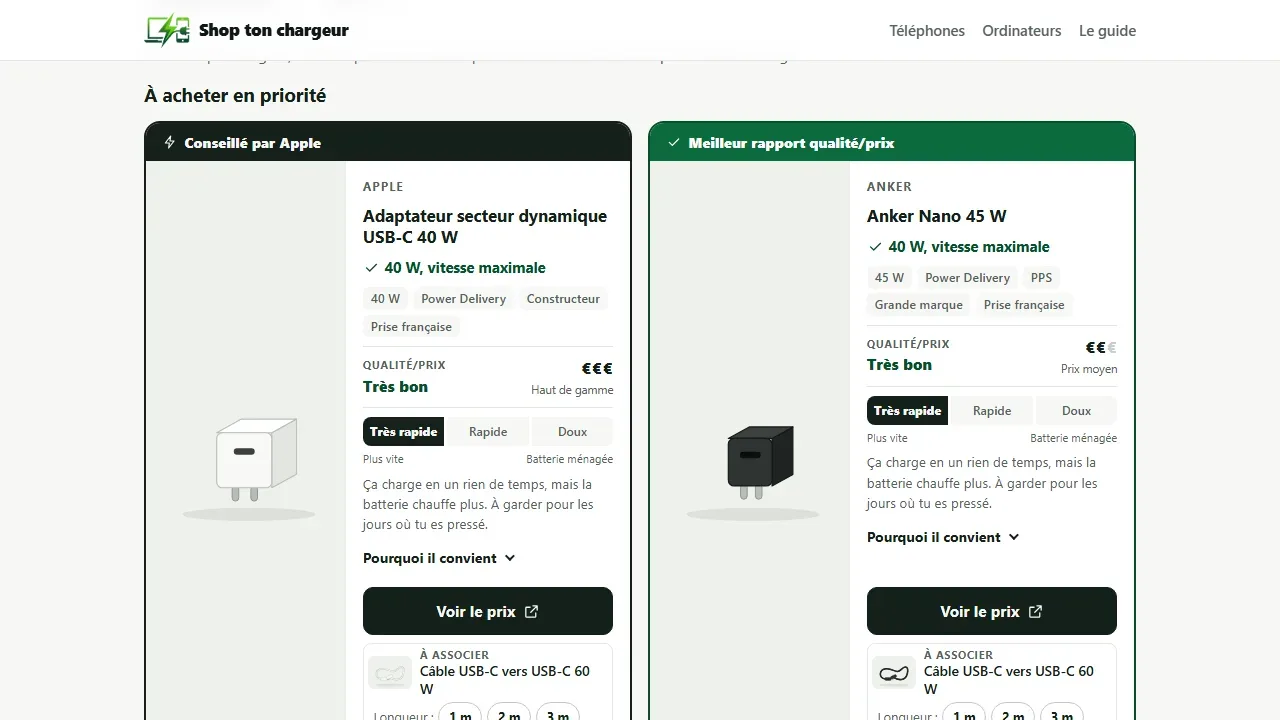
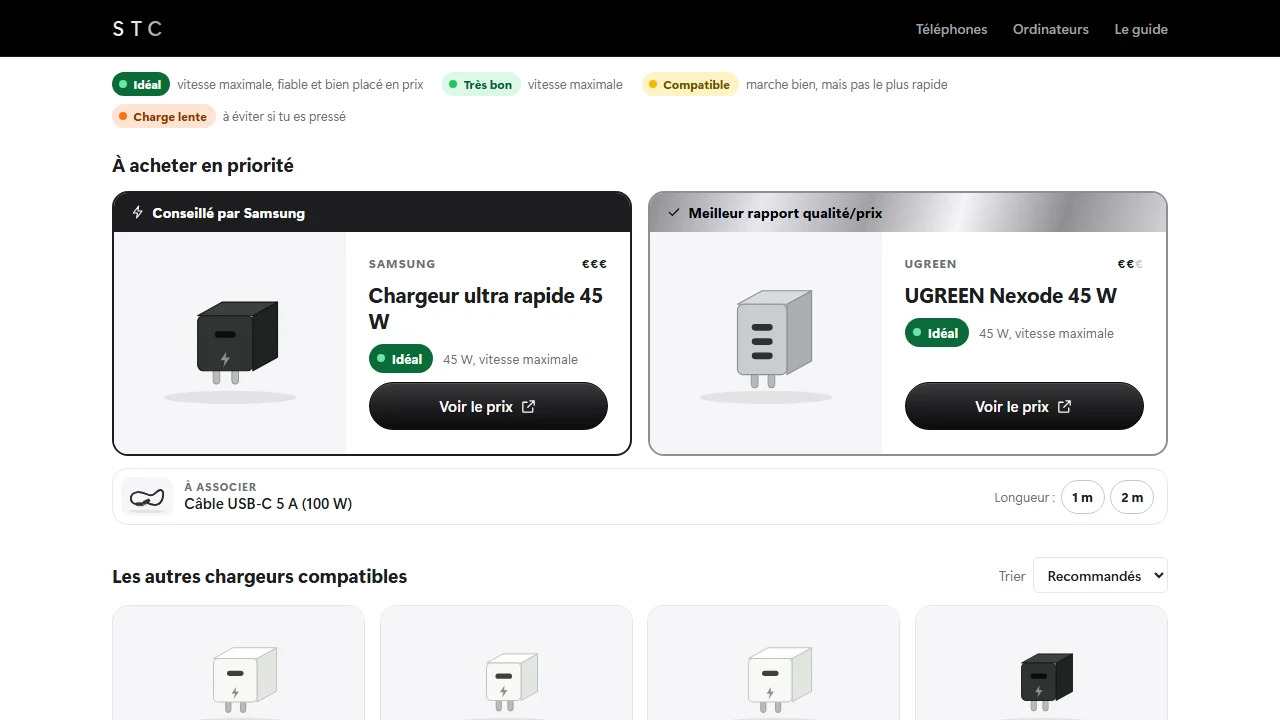
feat: Croc's en réalisation, captures d'O'RDV et de Shop ton chargeur refaites

diff --git a/front/src/data/realisations.ts b/front/src/data/realisations.ts
@@ -9,6 +9,12 @@ import cadeauxBilan from '../assets/realisations/cadeaux/bilan.webp';
 import cadeauxCagnotte from '../assets/realisations/cadeaux/cagnotte.webp';
 import cadeauxParticiper from '../assets/realisations/cadeaux/participer.webp';
 import cadeauxEnvies from '../assets/realisations/cadeaux/envies.webp';
+import crocsAccueil from '../assets/realisations/crocs/accueil.webp';
+import crocsCarte from '../assets/realisations/crocs/carte.webp';
+import crocsModificationHaut from '../assets/realisations/crocs/modification-haut.webp';
+import crocsModification from '../assets/realisations/crocs/modification.webp';
+import crocsEspacePro from '../assets/realisations/crocs/espace-pro.webp';
+import crocsVenir from '../assets/realisations/crocs/venir.webp';
 import chargeurAccueil from '../assets/realisations/choptonchargeur/accueil.webp';
 import chargeurRecherche from '../assets/realisations/choptonchargeur/recherche.webp';
 import chargeurFiche from '../assets/realisations/choptonchargeur/fiche.webp';
@@ -41,6 +47,7 @@ import ordvAccueil from '../assets/realisations/ordv/accueil.webp';
 import ordvConnexion from '../assets/realisations/ordv/connexion.webp';
 import ordvEspacePro from '../assets/realisations/ordv/espace-pro.webp';
 import ordvInscription from '../assets/realisations/ordv/inscription.webp';
+import ordvRecherche from '../assets/realisations/ordv/recherche.webp';
 import ordvPriseDeRendezVous from '../assets/realisations/ordv/prise-de-rendez-vous.webp';
 import ordvReservation from '../assets/realisations/ordv/reservation.webp';
 
@@ -125,6 +132,41 @@ export function realisationsFiltrees(filtre: string | null): Realisation[] {
 }
 
 export const realisations: Realisation[] = [
+  {
+    id: 'crocs',
+    categorie: 'Restauration rapide · Amiens',
+    type: 'site',
+    titre: 'Croc’s',
+    resume: 'Site d’un snack d’Amiens, que le patron modifie en touchant l’écran.',
+    annee: '2026',
+    lien: { label: 'Voir le projet', to: cheminRealisation('crocs') },
+    apercu: 'site',
+    emplacements: ['[capture du site]'],
+    captures: [
+      { src: crocsAccueil, legende: 'Accueil : appeler ou venir en un geste, photos qui défilent' },
+      { src: crocsCarte, legende: 'La carte complète, avec ses prix, sur une seule page' },
+      { src: crocsModificationHaut, legende: 'Mode modification : le patron touche un texte ou une photo pour le changer' },
+      { src: crocsModification, legende: 'Mode modification de la carte : plats, prix, rubriques, « Épuisé »' },
+      { src: crocsEspacePro, legende: 'Espace du patron, installable sur son téléphone' },
+      { src: crocsVenir, legende: 'Venir : itinéraire, temps de trajet et horaires du jour' },
+    ],
+    contexte:
+      'Croc’s est un snack de la rue de Rouen, à Amiens : kebabs, tacos, libanais, paninis et burgers. Sa carte n’existait que sur la vitrine et sur des annuaires pas toujours à jour.',
+    besoin:
+      'Un site simple, rapide sur téléphone, avec la carte et les prix, l’itinéraire et les horaires. Et surtout un patron autonome : changer un prix, un plat épuisé ou une fermeture sans appeler personne.',
+    solution:
+      'Un site d’une page, aux couleurs de l’enseigne : la carte complète, l’appel et l’itinéraire en un geste, le temps de trajet depuis chez soi. Le patron se connecte depuis son téléphone et modifie son site directement, en touchant ce qu’il veut changer. C’est enregistré tout de suite.',
+    fonctionnalites: [
+      'Carte complète par rubriques, prix en euros, plats « Nouveau » et « Épuisé »',
+      'Bouton d’appel, itinéraire Google Maps, Waze ou Plans, carte de l’adresse',
+      'Temps de trajet en voiture, à vélo et à pied depuis sa position ou une adresse',
+      'Horaires avec le jour même mis en avant, annonce de fermeture exceptionnelle',
+      'Modification sur le site : le patron touche un plat, un prix, un texte ou une photo pour le changer',
+      'Espace du patron installable sur le téléphone, déconnexion automatique après 30 minutes',
+      'Mentions légales et données personnelles',
+    ],
+    technos: ['React', 'TypeScript', 'Vite', 'Symfony', 'MySQL', 'GitHub Actions'],
+  },
   {
     id: 'christophe-poix-moto',
     categorie: 'Réparation moto à domicile',
@@ -250,11 +292,11 @@ export const realisations: Realisation[] = [
     apercu: 'site',
     emplacements: ['[capture du site]'],
     captures: [
-      { src: chargeurAccueil, legende: 'Accueil : recherche par téléphone ou par ordinateur portable' },
-      { src: chargeurRecherche, legende: 'Recherche par le nom seul, les plus récents d’abord' },
+      { src: chargeurAccueil, legende: 'Accueil noir et titane : recherche et modèles récents avec leur puissance' },
+      { src: chargeurRecherche, legende: 'Recherche par le nom seul (« s24 »), les plus récents d’abord' },
       { src: chargeurFiche, legende: 'Fiche d’un téléphone : puissance, port, charge rapide, sans fil' },
-      { src: chargeurPriorites, legende: 'À acheter en priorité : conseillé par la marque et meilleur rapport qualité/prix' },
-      { src: chargeurSansfil, legende: 'Chargeurs sans fil compatibles' },
+      { src: chargeurPriorites, legende: 'À acheter en priorité, avec une note en couleur et le câble qui va avec' },
+      { src: chargeurSansfil, legende: 'Chargeurs sans fil compatibles (MagSafe, Qi2, Qi)' },
       { src: chargeurOrdinateurs, legende: 'Ordinateurs portables par marque et par série' },
       { src: chargeurGuide, legende: 'Le guide : bloc, câble, batterie, chargeurs premier prix' },
     ],
@@ -267,8 +309,9 @@ export const realisations: Realisation[] = [
     fonctionnalites: [
       'Recherche par nom seul (« s24 ultra », « iphone 15 ») parmi 1 566 téléphones USB-C et iPhone, et détection automatique de l’appareil',
       'Pour chaque téléphone : le chargeur conseillé par la marque et le meilleur rapport qualité/prix mis en avant, puis les autres compatibles',
-      'Vitesse réellement obtenue et explication « Pourquoi il convient » (Power Delivery, PPS, 5 A, charge propre à la marque)',
-      'Effet sur la batterie (très rapide, rapide, doux), câble à associer en plusieurs longueurs, chargeurs sans fil MagSafe, Qi2 et Qi',
+      'Une note en couleur pour chaque chargeur : Idéal, Très bon, Compatible ou Charge lente, selon la vitesse réellement obtenue',
+      'Cartes épurées et cliquables, câble à associer en plusieurs longueurs, chargeurs sans fil MagSafe, Qi2 et Qi',
+      'Design noir et blanc à effet titane, animations discrètes (apparitions, jauges de puissance, recherche tapée)',
       'Ordinateurs portables par marque et par série, y compris prises rondes et rectangulaires, avec le chargeur d’origine',
       'Uniquement des marques connues en version prise française, liens affiliés vers Amazon',
       'Référencement : une page par appareil générée à la construction (120 pages), FAQ structurée, sitemap, robots.txt ouvert aux assistants et llms.txt',
@@ -287,9 +330,10 @@ export const realisations: Realisation[] = [
     apercu: 'plateforme',
     emplacements: ['[recherche de professionnels]'],
     captures: [
-      { src: ordvAccueil, legende: 'Accueil et recherche de professionnels' },
-      { src: ordvPriseDeRendezVous, legende: 'Prise de rendez-vous' },
-      { src: ordvReservation, legende: 'Choix du créneau' },
+      { src: ordvAccueil, legende: 'Accueil : recherche, catégories et filtres' },
+      { src: ordvRecherche, legende: 'Résultats par catégorie, avec la carte des professionnels' },
+      { src: ordvPriseDeRendezVous, legende: 'Fiche d’un professionnel' },
+      { src: ordvReservation, legende: 'Réservation : prestation puis date' },
       { src: ordvEspacePro, legende: 'Espace professionnel' },
       { src: ordvConnexion, legende: 'Connexion' },
       { src: ordvInscription, legende: 'Inscription' },
@@ -301,7 +345,7 @@ export const realisations: Realisation[] = [
     solution:
       'Une plateforme en deux espaces : le professionnel publie ses disponibilités et gère son planning, le client recherche un prestataire et réserve un créneau libre en quelques clics. Les données personnelles sont chiffrées en base.',
     fonctionnalites: [
-      'Accueil avec recherche de professionnels',
+      'Accueil avec recherche, catégories et filtres (ouvert maintenant, note, autour de moi, tri)',
       'Inscription et connexion, espace client et espace pro',
       'Prise de rendez-vous avec les seuls créneaux disponibles',
       'Espace professionnel : planning et réservations',

diff --git a/front/src/pages/Realisations/Realisations.test.tsx b/front/src/pages/Realisations/Realisations.test.tsx
@@ -38,11 +38,12 @@ describe('Page Réalisations', () => {
     const cartes = () => screen.getAllByRole('article').map((a) => a.getAttribute('aria-labelledby'));
 
     expect(screen.getByRole('radio', { name: 'Tout' })).toBeChecked();
-    expect(screen.getByText('6 projets')).toBeInTheDocument();
-    expect(cartes()).toHaveLength(6);
+    expect(screen.getByText('7 projets')).toBeInTheDocument();
+    expect(cartes()).toHaveLength(7);
 
     await user.click(screen.getByRole('radio', { name: 'Sites web' }));
-    expect(screen.getByText('3 projets')).toBeInTheDocument();
+    expect(screen.getByText('4 projets')).toBeInTheDocument();
+    expect(screen.getByRole('article', { name: 'Croc’s' })).toBeInTheDocument();
     expect(screen.getByRole('article', { name: 'Shop ton chargeur' })).toBeInTheDocument();
     expect(screen.queryByRole('article', { name: "O'RDV" })).not.toBeInTheDocument();
     expect(screen.getByRole('article', { name: 'Christophe Poix Moto' })).toBeInTheDocument();
@@ -54,7 +55,7 @@ describe('Page Réalisations', () => {
     expect(screen.getByRole('article', { name: 'Alterno' })).toBeInTheDocument();
 
     await user.click(screen.getByRole('radio', { name: 'Tout' }));
-    expect(cartes()).toHaveLength(6);
+    expect(cartes()).toHaveLength(7);
   });
 
   it('reprend le filtre de l’adresse, et ignore un filtre inconnu', () => {
@@ -65,7 +66,7 @@ describe('Page Réalisations', () => {
 
     afficher(`${pages.realisations.path}?type=inconnu`);
     expect(screen.getByRole('radio', { name: 'Tout' })).toBeChecked();
-    expect(screen.getAllByRole('article')).toHaveLength(6);
+    expect(screen.getAllByRole('article')).toHaveLength(7);
   });
 
   it('présente Cadeaux : captures, fonctionnalités et lien vers le site', () => {
@@ -94,11 +95,12 @@ describe('Page Réalisations', () => {
     expect(screen.getByRole('article', { name: 'Perfect Clean' })).toBeInTheDocument();
 
     await user.click(screen.getByRole('radio', { name: 'Commerce et restauration' }));
-    expect(screen.getByText('2 projets')).toBeInTheDocument();
+    expect(screen.getByText('3 projets')).toBeInTheDocument();
+    expect(screen.getByRole('article', { name: 'Croc’s' })).toBeInTheDocument();
     expect(screen.getByRole('article', { name: /Carte par QR code/ })).toHaveTextContent('Exemple');
 
     await user.click(screen.getByRole('radio', { name: 'Sites web' }));
-    expect(screen.getByText('1 projet')).toBeInTheDocument();
+    expect(screen.getByText('2 projets')).toBeInTheDocument();
     expect(screen.getByRole('article', { name: /Carte par QR code/ })).toBeInTheDocument();
   });
 
@@ -141,7 +143,7 @@ describe('Page d’une réalisation', () => {
       expect(screen.getByRole('heading', { level: 2, name: titre })).toBeInTheDocument();
     }
     expect(screen.getByText('MySQL')).toBeInTheDocument();
-    expect(screen.getByRole('button', { name: "Agrandir la capture : Accueil et recherche de professionnels" })).toBeInTheDocument();
+    expect(screen.getByRole('button', { name: "Agrandir la capture : Accueil : recherche, catégories et filtres" })).toBeInTheDocument();
     expect(screen.getByRole('button', { name: "Agrandir la capture : Espace professionnel" })).toBeInTheDocument();
     const demo = screen.getByRole('link', { name: /Tester la démo en ligne/ });
     expect(demo).toHaveAttribute('href', 'https://o-rdv.vercel.app');
@@ -164,7 +166,7 @@ describe('Page d’une réalisation', () => {
   it('mène aux projets précédent et suivant, et revient à la liste', () => {
     afficher('/realisations/christophe-poix-moto');
     const voisins = within(screen.getByRole('navigation', { name: 'Autres réalisations' }));
-    expect(voisins.getByRole('link', { name: /Projet précédent/ })).toHaveAttribute('href', '/realisations/alterno');
+    expect(voisins.getByRole('link', { name: /Projet précédent/ })).toHaveAttribute('href', '/realisations/crocs');
     expect(voisins.getByRole('link', { name: /Projet suivant/ })).toHaveAttribute('href', '/realisations/demo-detailing');
     expect(screen.getByRole('link', { name: '← Toutes les réalisations' })).toHaveAttribute('href', pages.realisations.path);
   });

diff --git a/front/src/data/seo.test.ts b/front/src/data/seo.test.ts
@@ -15,11 +15,12 @@ describe('SEO', () => {
     expect(chemins).toContain(pages.rendezVous.path);
     expect(chemins.filter((c) => c.startsWith('/mon-espace'))).toEqual([]);
     // Pages publiques, plus une page par réalisation.
-    expect(chemins).toHaveLength(Object.keys(pages).length - pagesNonIndexees.length + 6);
+    expect(chemins).toHaveLength(Object.keys(pages).length - pagesNonIndexees.length + 7);
     expect(chemins).toContain('/realisations/alterno');
     expect(chemins).toContain('/realisations/choptonchargeur');
     expect(chemins).toContain('/realisations/cadeaux');
     expect(chemins).toContain('/realisations/ordv');
+    expect(chemins).toContain('/realisations/crocs');
   });
 
   it('demande aux robots de ne pas visiter l’espace client', () => {

diff --git a/front/src/data/realisationsIds.ts b/front/src/data/realisationsIds.ts
@@ -2,7 +2,7 @@
  * Identifiants et adresses des pages de réalisations, sans images : utilisés aussi par le plan du site
  * (`seo.ts`, lu par la configuration de Vite côté serveur, où les imports d'images ne fonctionnent pas).
  */
-export const idsRealisations = ['christophe-poix-moto', 'demo-detailing', 'cadeaux', 'choptonchargeur', 'ordv', 'alterno'] as const;
+export const idsRealisations = ['crocs', 'christophe-poix-moto', 'demo-detailing', 'cadeaux', 'choptonchargeur', 'ordv', 'alterno'] as const;
 
 export type IdRealisation = (typeof idsRealisations)[number];
 

diff --git a/front/src/components/RealisationCard/RealisationCard.test.tsx b/front/src/components/RealisationCard/RealisationCard.test.tsx
@@ -6,7 +6,7 @@ import { RealisationCard } from './RealisationCard';
 
 const [moto] = realisations;
 /** Projet sans captures : la carte montre une illustration provisoire. */
-const provisoire = { ...realisations[1], captures: [], emplacements: ['[écran réservation]', '[écran paiement]'] };
+const provisoire = { ...realisations.find((r) => r.id === 'demo-detailing')!, captures: [], emplacements: ['[écran réservation]', '[écran paiement]'] };
 
 function renderCard(ui: ReactElement) {
   return render(<MemoryRouter>{ui}</MemoryRouter>);

diff --git a/front/src/data/secteurs.ts b/front/src/data/secteurs.ts
@@ -18,6 +18,7 @@ export type Secteur = (typeof secteurs)[number]['value'];
 
 /** Secteur de chaque carte (réalisation ou exemple). Un test vérifie que toutes en ont un. */
 export const secteurDe: Record<string, Exclude<Secteur, 'tous'>> = {
+  crocs: 'commerce',
   'christophe-poix-moto': 'artisans',
   'demo-detailing': 'artisans',
   cadeaux: 'perso',

diff --git a/docs/fonctionnalites/pages-de-contenu.md b/docs/fonctionnalites/pages-de-contenu.md
@@ -48,7 +48,7 @@ Les pages sont propres au site ; les blocs utilisés (`Card`, `SectionTitle`, `R
 - **fonctionnels** : `Home.test.tsx`, `Metier.test.tsx`, `Realisations.test.tsx`, `APropos.test.tsx`, `Informatique.test.tsx`, `Legal.test.tsx`.
 
 ## Réalisations
-`/realisations` liste les projets en cartes (`components/RealisationCard`, couverture = première capture). Chaque carte mène à `/realisations/<projet>` (`pages/Realisation`), qui n'affiche que ce projet. Données : `data/realisations.ts` (captures WebP dans `src/assets/realisations/`), identifiants pour le plan du site : `data/realisationsIds.ts`. Projets : Christophe Poix Moto, démo detailing, O'RDV, Alterno.
+`/realisations` liste les projets en cartes (`components/RealisationCard`, couverture = première capture). Chaque carte mène à `/realisations/<projet>` (`pages/Realisation`), qui n'affiche que ce projet. Données : `data/realisations.ts` (captures WebP dans `src/assets/realisations/`), identifiants pour le plan du site : `data/realisationsIds.ts`. Projets, dans l'ordre : Croc's, Christophe Poix Moto, démo detailing (Perfect Clean), Cadeaux, Shop ton chargeur, O'RDV, Alterno.
 
 ## FAQ sur l'accueil
 La FAQ est une section de l'accueil, juste avant la carte des zones (`id="faq"`). La fin de l'accueil est : Questions fréquentes → Carte → Formulaire de contact, pour que la page se termine par l'action ; le pied de page n'y répète pas son appel « Un projet en tête ? ». Elle montre 3 questions, puis 3 de plus à chaque clic sur « Voir plus de questions (n restantes) ». Après chaque clic, le focus clavier passe à la première nouvelle question. Le lien « Questions fréquentes » du pied de page mène à `/#faq` (`lienFaq`). L'ancienne adresse `/faq` y redirige, ce qui garde valables les liens déjà partagés. Elle est retirée du plan du site. Les données structurées FAQPage sont maintenant sur l'accueil. Le nombre de questions par paquet se règle dans `faqAccueil.parPaquet`.
@@ -175,3 +175,6 @@ Mise à jour du 2026-11-16 (soir) : neuf captures (ajout des abonnements, de l'e
 
 ## Pages métier (11)
 `data/metiers.ts` (`pagesMetier`, dont `pagesPersonas`) : artisan (services à domicile), bâtiment, beauté, commerce, restaurant, santé (`independant`), professions libérales, cours, gîtes, associations, événementiel. Chaque page : `pages.ts` (adresse, titre, promesse), une catégorie `MetierId` (`offres.ts` : fonctions proposées ; `apercu.ts` : entreprise fictive ; `metiersConnus.ts` : métiers rangés dedans), une route (`app/routes.tsx`) et un lien de pied de page (`navigation.ts`).
+
+## Réalisation « Croc's » (2026-11-24)
+La fiche `crocs` (`data/realisations.ts`, métier « Commerce et restauration ») présente le site du snack, sans lien tant que la démo est privée. Six captures (`assets/realisations/crocs/`) prises sur `apps/crocs/front` de bsandoz-booking servi en local ; pour le mode modification et l'espace du patron, la session est simulée dans le navigateur au moment de la capture. Les captures d'O'RDV (site en ligne, sans les comptes de test) et de Shop ton chargeur (site local) ont été refaites le même jour après leurs changements de design.

diff --git a/docs/journal/139-feature-realisations-crocs.md b/docs/journal/139-feature-realisations-crocs.md
@@ -1,0 +1,23 @@
+# Croc's en réalisation, captures d'O'RDV et de Shop ton chargeur refaites
+
+Branche `feature/realisations-crocs` · 2026-11-24
+
+## Ce qui a été fait
+Baptiste voulait ajouter Croc's à ses réalisations, et refaire les captures d'O'RDV (nouvelle barre de navigation et nouveaux filtres) et de Shop ton chargeur (nouveau design noir et titane, cartes avec note en couleur).
+- **Croc's** (`/realisations/crocs`), en tête de liste, métier « Commerce et restauration », type « Sites web » : contexte, besoin, solution, 7 fonctionnalités, 6 captures (accueil, carte, mode modification du haut de page et de la carte, espace du patron, venir et horaires). Pas de lien vers le site : la démo est encore privée.
+- **Captures de Croc's** : prises sur le site construit en local (`apps/crocs/front` de bsandoz-booking). Pour le mode modification et l'espace du patron, la session du patron est simulée dans le navigateur, avec la carte du site ; rien n'est modifié dans le projet. Les avis clients (Restaurant Guru) ne sont pas montrés : ils attendent l'accord du patron.
+- **O'RDV** : accueil, résultats par catégorie, fiche d'un professionnel, réservation, connexion et inscription refaites sur le site en ligne (o-rdv.vercel.app), en évitant les comptes de test (« Bg Baptiste », « choco IT »). L'espace pro garde son ancienne capture (il faut un compte pro pour la refaire).
+- **Shop ton chargeur** : les 7 captures refaites sur le site construit en local, légendes et fonctionnalités à jour (note en couleur, cartes épurées, design noir et titane, animations).
+
+## Tests
+- Compteurs de la page Réalisations (7 projets, 4 sites web, 3 en commerce et restauration), projet précédent de Christophe Poix Moto (Croc's), plan du site (une page de plus).
+- Résultats : 401 tests ; lint et build sans erreur (27 pages lisibles sans JavaScript).
+- Vérifié dans Chrome : liste des réalisations et page de Croc's.
+
+## Fichiers principaux
+- `front/src/data/realisations.ts`, `realisationsIds.ts`, `secteurs.ts`
+- `front/src/assets/realisations/crocs/`, `ordv/`, `choptonchargeur/`
+
+## Reste ouvert
+- Demander au patron de Croc's s'il est d'accord pour apparaître dans les réalisations (photos de son snack, carte et prix pas encore validés).
+- Capture de l'espace pro d'O'RDV à refaire avec un compte pro.

diff --git a/docs/CHANGELOG.md b/docs/CHANGELOG.md
@@ -1,6 +1,11 @@
 # Journal des modifications
 
 ## [Non publié]
+### Ajouté (réalisation Croc's)
+- Croc's dans les réalisations, en tête : site d'un snack d'Amiens que le patron modifie en touchant l'écran ; 6 captures (accueil, carte, mode modification, espace du patron, venir). Pas de lien vers le site tant que la démo est privée.
+### Modifié (captures)
+- O'RDV : captures refaites avec la nouvelle barre de navigation et les nouveaux filtres (accueil, résultats par catégorie, fiche, réservation, connexion, inscription).
+- Shop ton chargeur : les 7 captures refaites (design noir et titane, notes en couleur), légendes et fonctionnalités à jour.
 ### Ajouté (relance « Avant de partir »)
 - Carte « Avant de partir · Donnez vie à votre idée », 30 secondes après l'arrivée sur le site : « Recevoir ma maquette gratuite » (formulaire avec la maquette déjà cochée) ou « Appeler le 07 69 28 78 37 ». Discrète, en bas de l'écran, sans bloquer la page ; attend la fermeture du bandeau des cookies ; une fois par visiteur, puis plus rien pendant 30 jours ; jamais sur les pages de devis, de rendez-vous, légales ou privées. 6 tests.
 ### Ajouté (tarifs sur l'accueil)

diff --git a/docs/journal/README.md b/docs/journal/README.md
@@ -158,3 +158,4 @@ Types de tests :
 | 127 | [Dix personas : une page par grand métier](127-feature-personas.md) | `feature/personas` | 2026-11-19 |
 | 128 | [Comparatif : « Avec moi » au milieu](128-style-comparatif-milieu.md) | `style/comparatif-milieu` | 2026-11-19 |
 | 138 | [Carte « Avant de partir » après 30 secondes](138-feature-relance-avant-de-partir.md) | `feature/relance-avant-de-partir` | 2026-11-24 |
+| 139 | [Croc's en réalisation, captures d'O'RDV et de Shop ton chargeur refaites](139-feature-realisations-crocs.md) | `feature/realisations-crocs` | 2026-11-24 |
